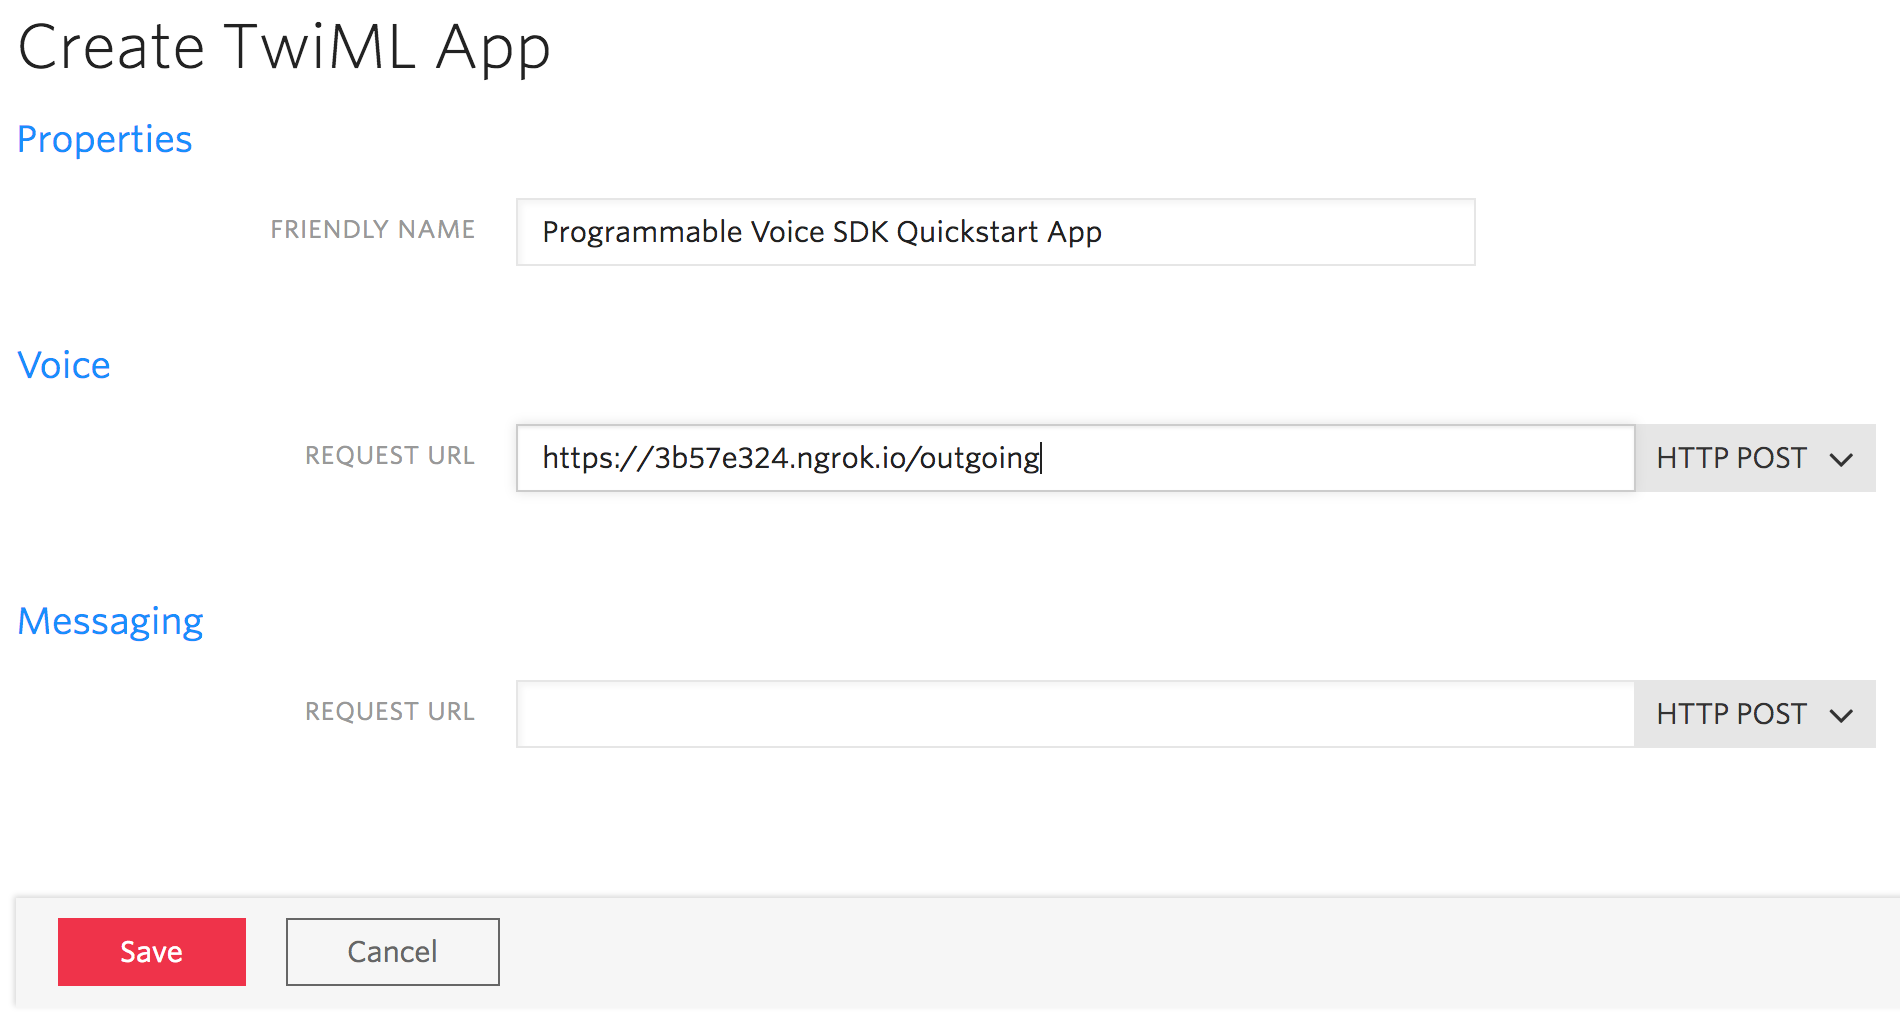
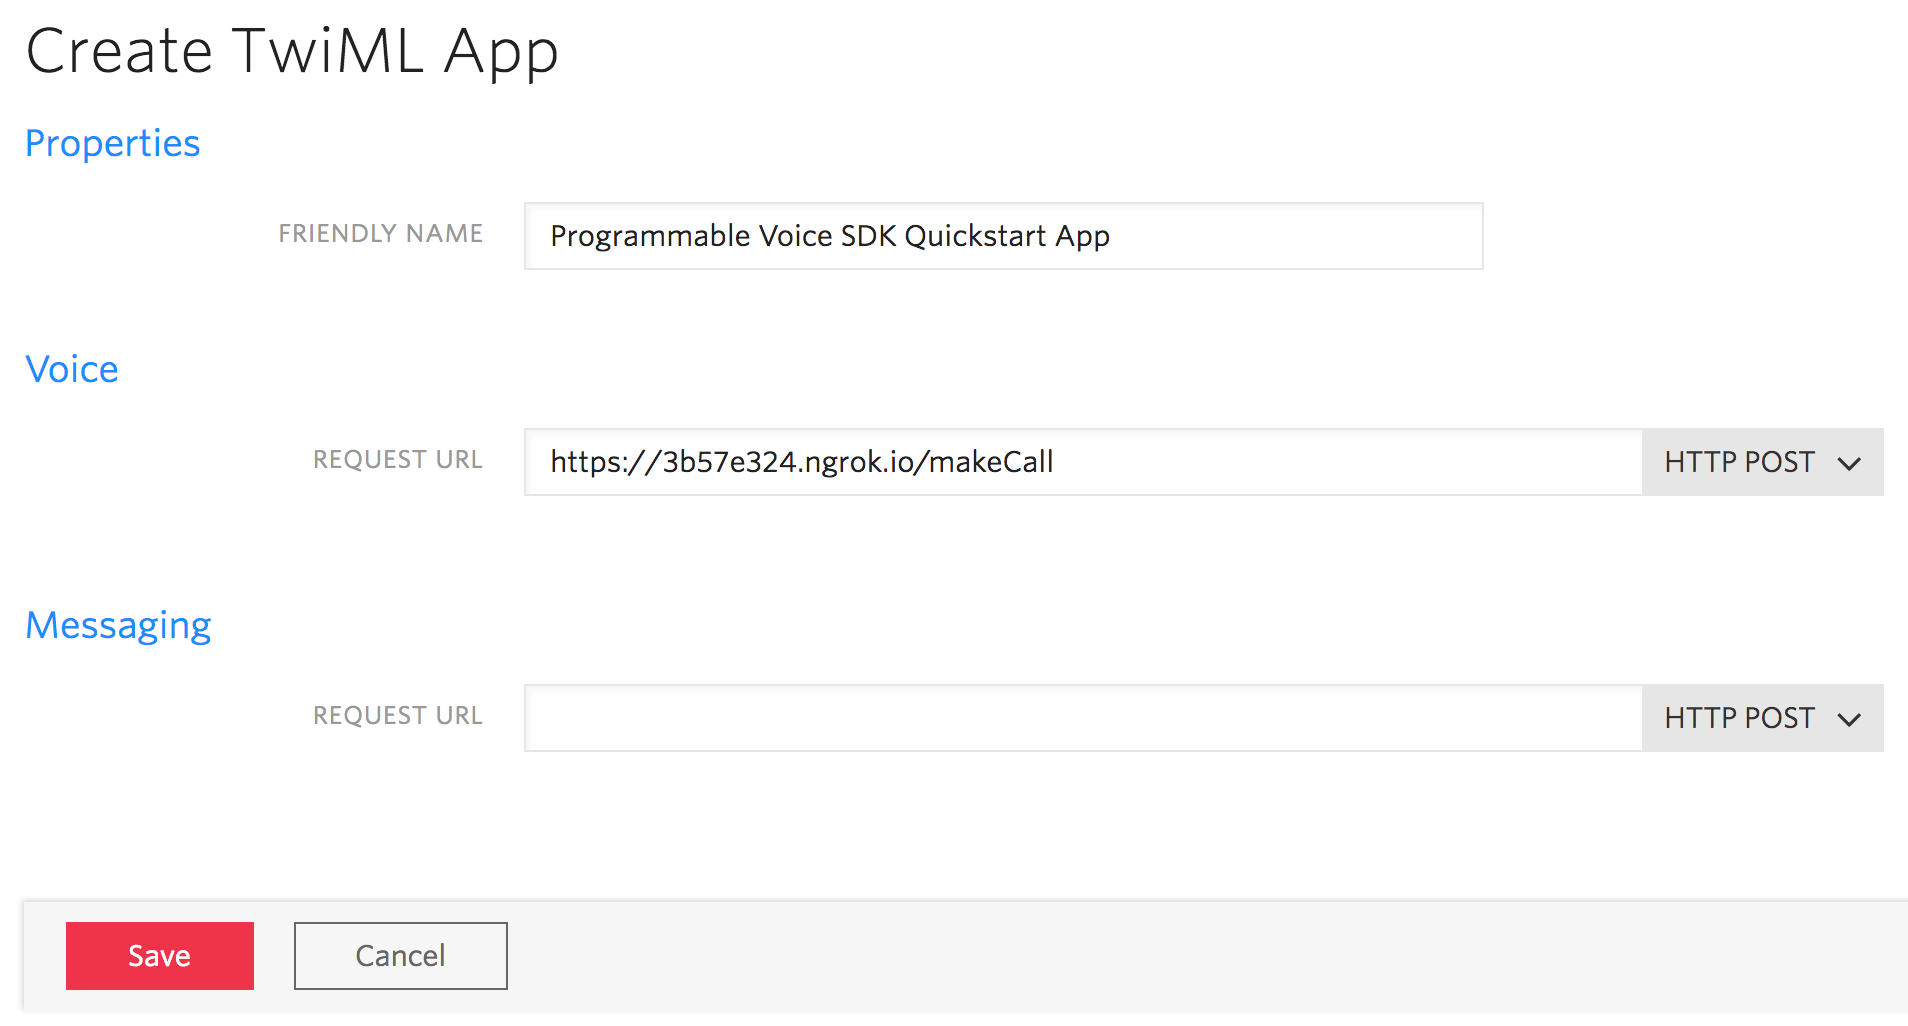
Update README

diff --git a/README.md b/README.md
@@ -42,7 +42,7 @@ Follow the instructions in the README to get the application server up and runni
 
 ### <a name="bullet4"></a>4. Create a TwiML application
 Next, we need to create a TwiML application. A TwiML application identifies a public URL for retrieving [TwiML call control instructions](https://www.twilio.com/docs/api/twiml). When your iOS app makes a call to the Twilio cloud, Twilio will make a webhook request to this URL, your application server will respond with generated TwiML, and Twilio will execute the instructions you’ve provided.
-To create a TwiML application, go to the [TwiML app page](https://www.twilio.com/console/voice/dev-tools/twiml-apps). Create a new TwiML application, and use the public URL of your application server’s `/outgoing` endpoint as the Voice Request URL.
+To create a TwiML application, go to the [TwiML app page](https://www.twilio.com/console/voice/dev-tools/twiml-apps). Create a new TwiML application, and use the public URL of your application server’s `/makeCall` endpoint as the Voice Request URL.
 
 <img src="Images/create-twiml-app.png"/>
 
@@ -70,7 +70,7 @@ Build and run the app
 
 <img height="667px" src="Images/build-and-run.png"/>
 
-Use the text field to specify the number or the identity of the call receiver, then tap the “Place Outgoing Call” button to make a call. The TwiML parameters used in `TwilioVoice.call()` method should match the name used in the server. Tap “Hang Up” to disconnect
+Use the text field to specify the number or the identity of the call receiver, then tap the “Call” button to make a call. The TwiML parameters used in `TwilioVoice.call()` method should match the name used in the server. Tap “Hang Up” to disconnect
 
 <img height="667px" src="Images/hang-up.png"/>
 
@@ -119,13 +119,9 @@ You are now ready to receive incoming calls. Rebuild your app and hit your appli
 <img height="667px" src="Images/incoming-call.png"/>
 
 ### <a name="bullet11"></a>11. Make client to client call
-Update your TwiML application and use the public URL of your application server’s `/makeCall` endpoint as the the Voice Request URL.
-
-<img src="Images/twiml-makecall.png"/>
-
 To make client to client calls, you need the application running on two devices. To run the application on an additional device, make sure you use a different identity in your access token when registering the new device.
 
-Use the text field to specify the identity of the call receiver, then tap the “Place Outgoing Call” button to make a call. The TwiML parameters used in `TwilioVoice.call()` method should match the name used in the server.
+Use the text field to specify the identity of the call receiver, then tap the “Call” button to make a call. The TwiML parameters used in `TwilioVoice.call()` method should match the name used in the server.
 
 <img height="667px" src="Images/client-to-client.png"/>
 
